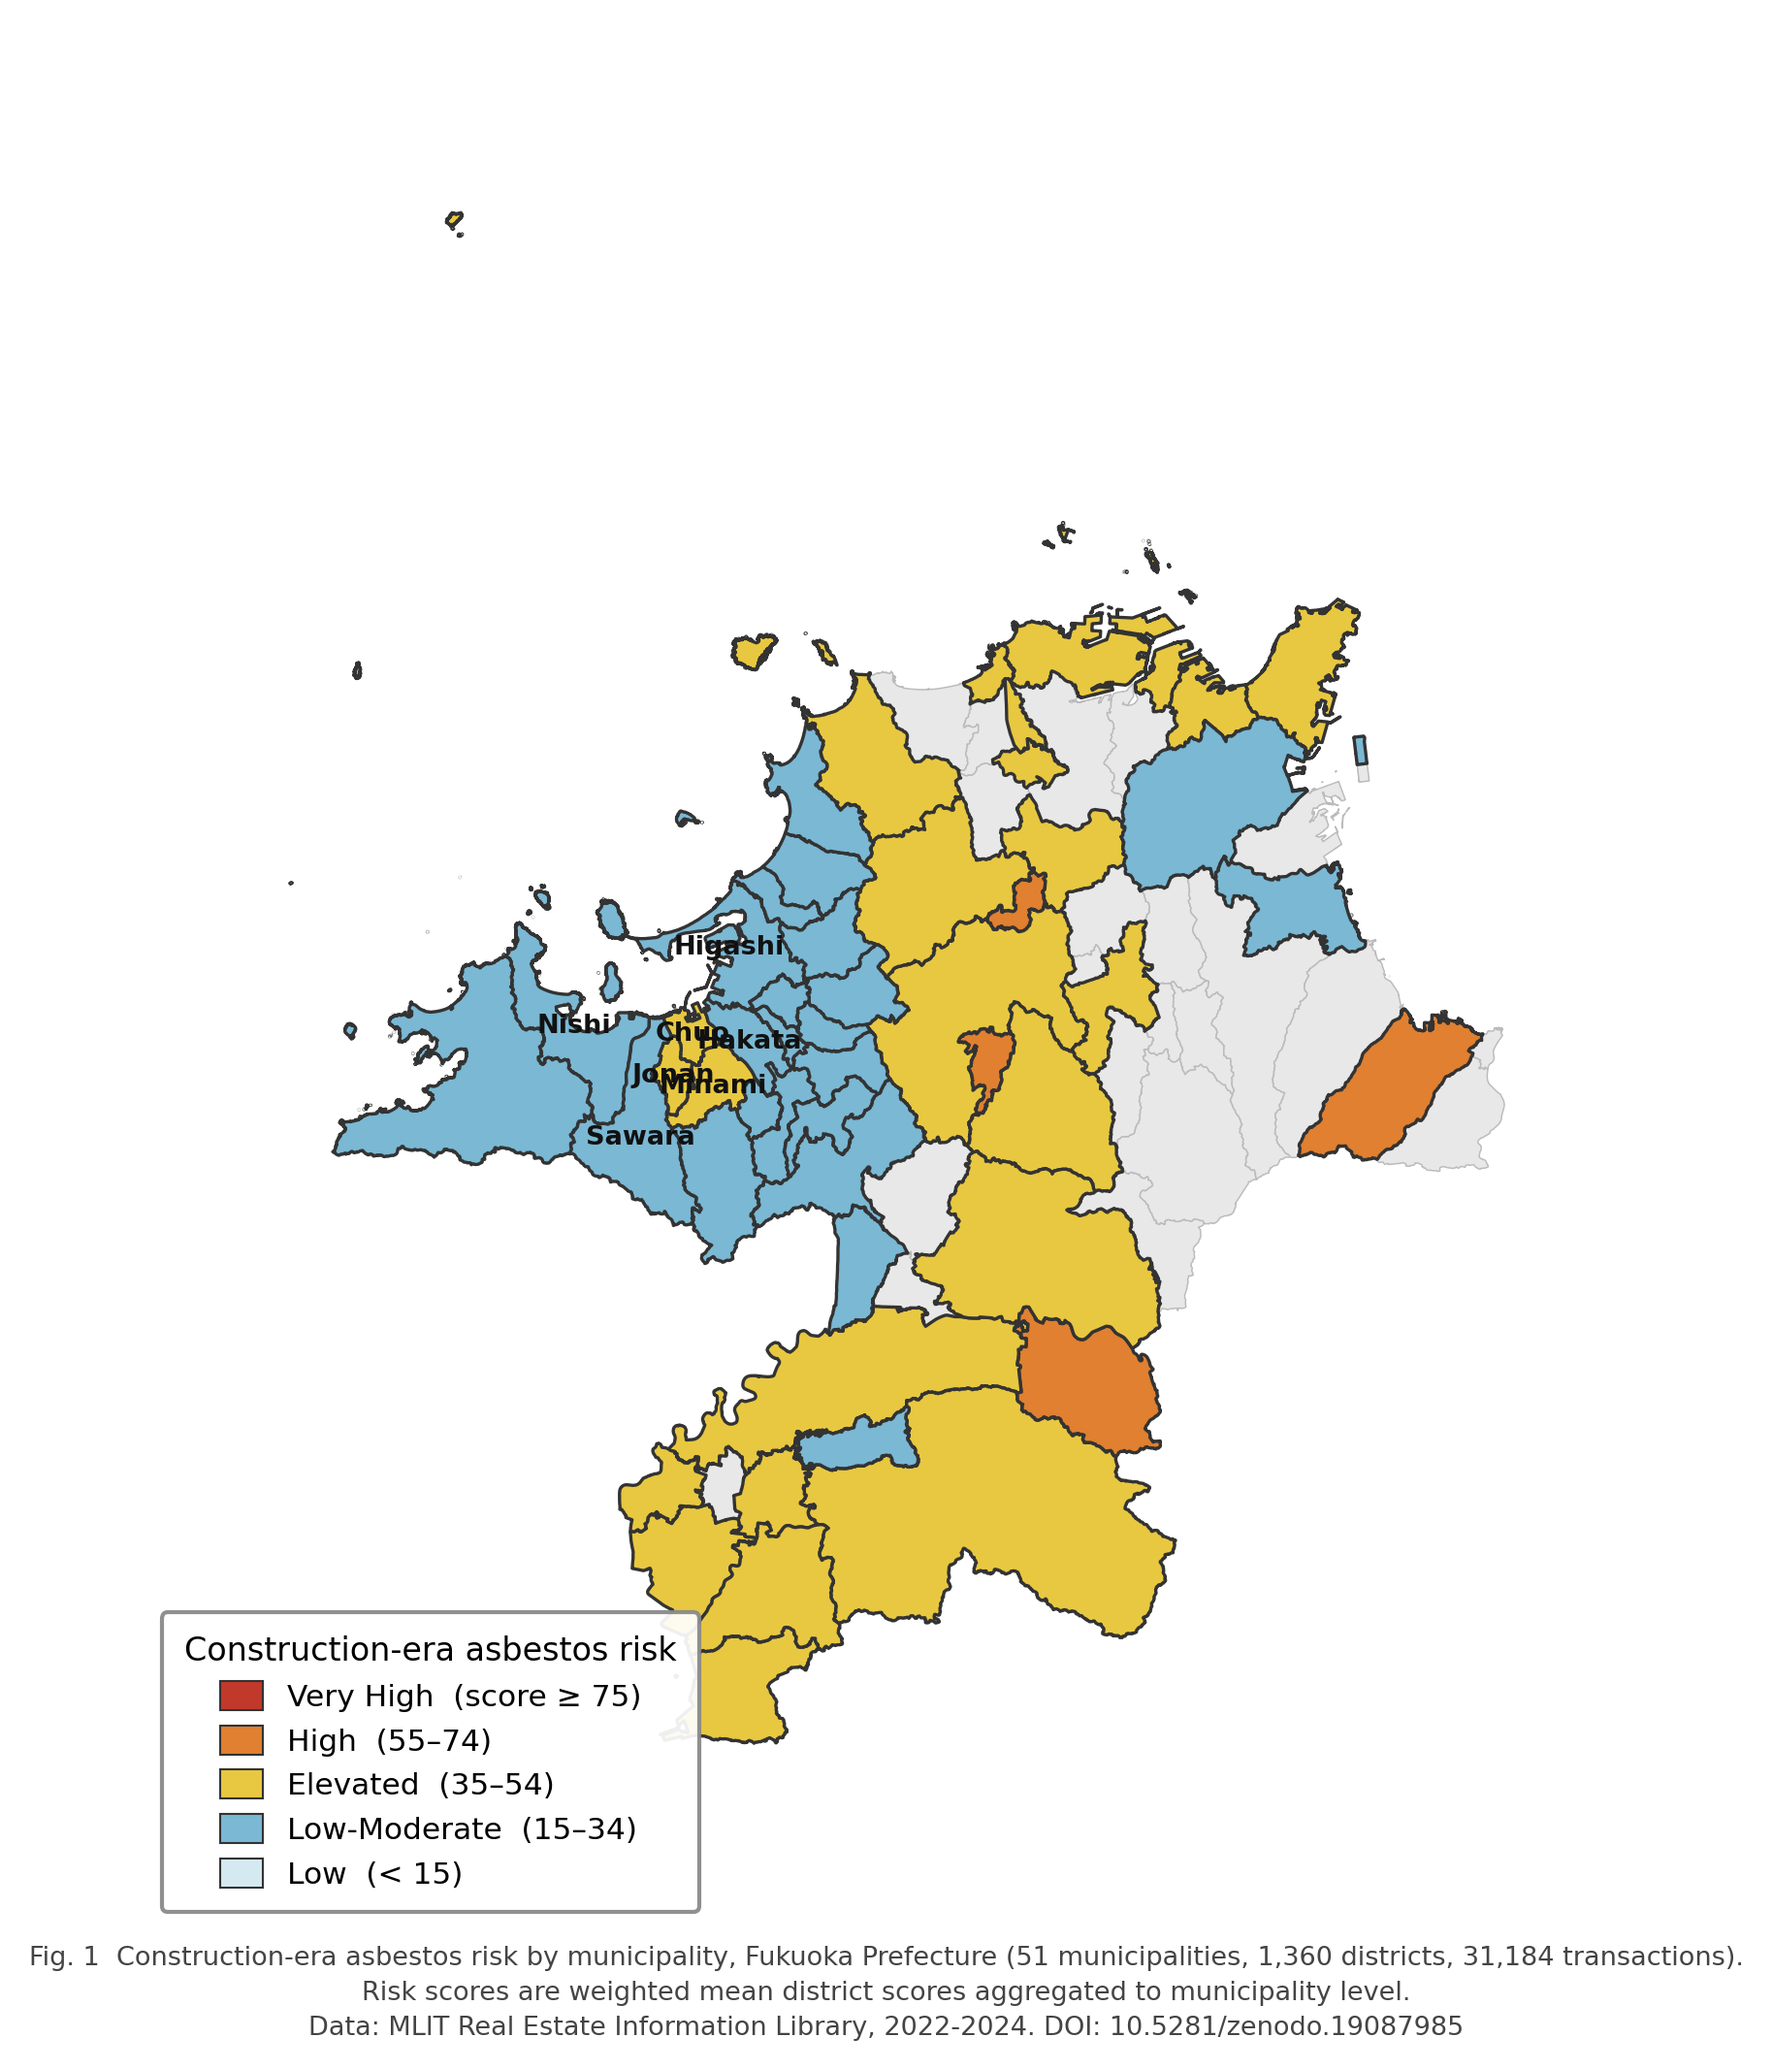
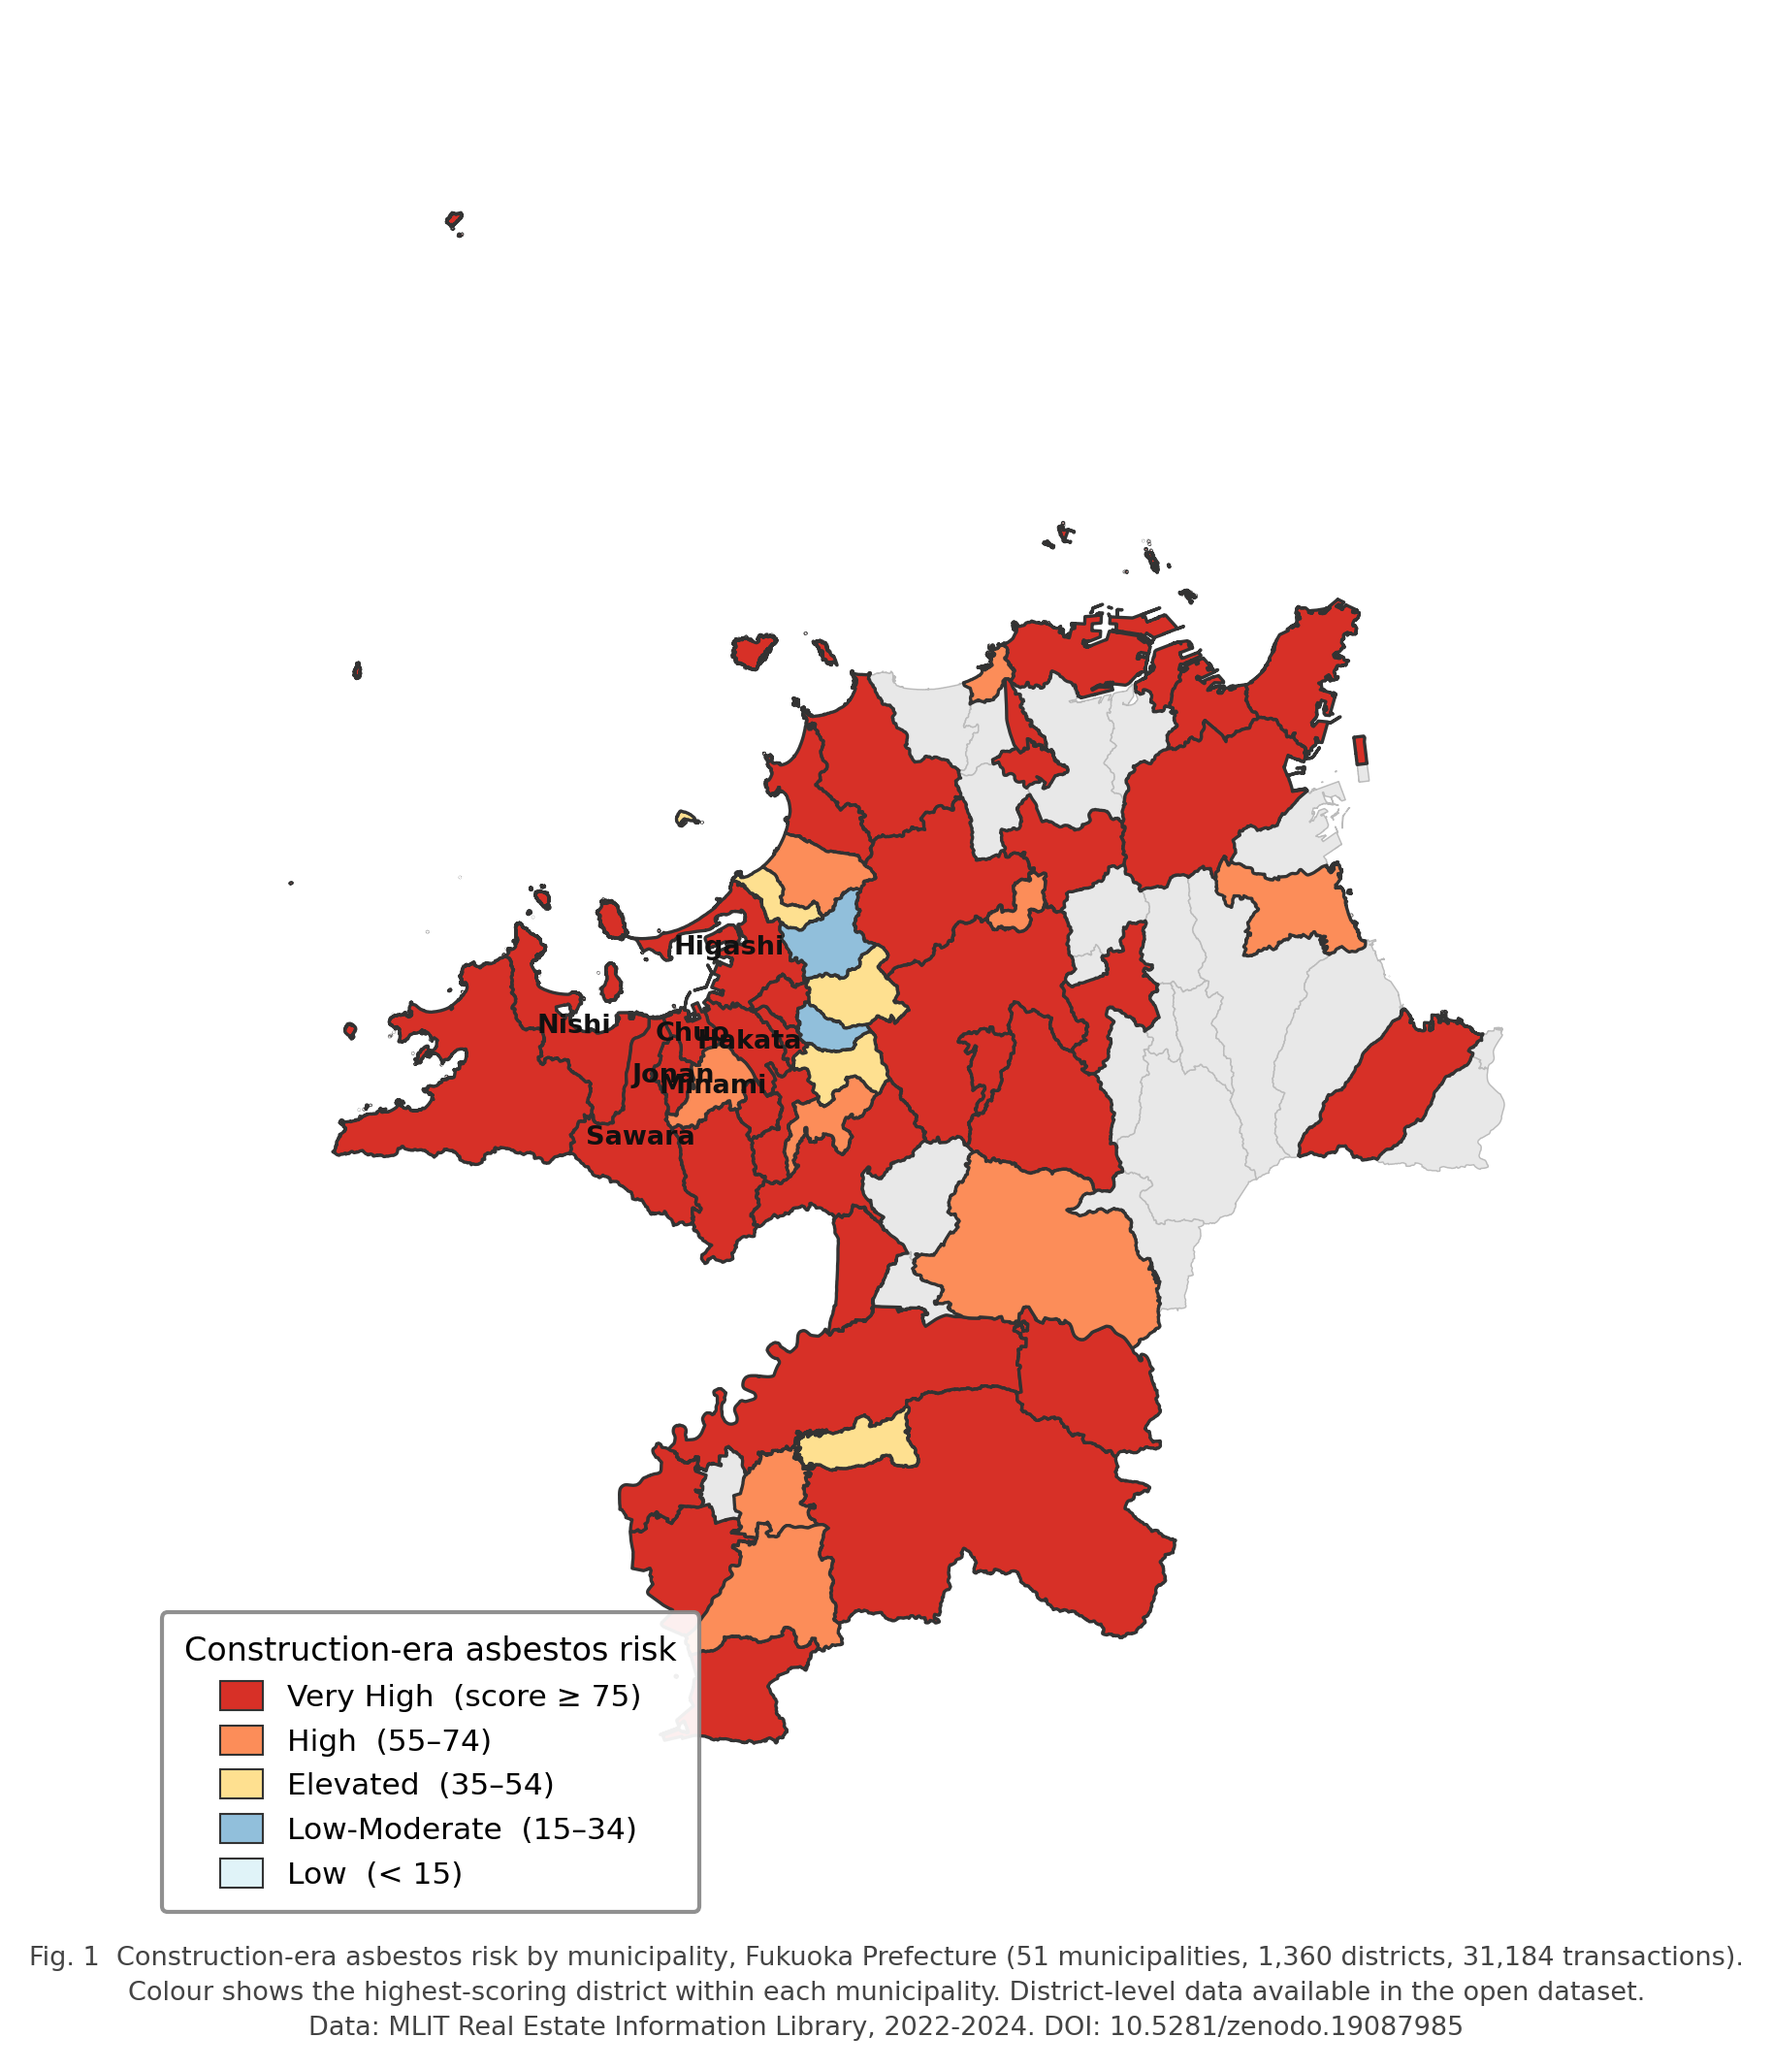
Figure: switch to max-district aggregation, RdYlBu palette
Previous weighted-mean approach diluted very_high districts when newer
buildings coexist in the same municipality, making most polygons appear
amber/blue with no red visible.

Changes:
- aggregate_to_municipality() now tracks max risk score per municipality
- Colour shows worst district in each polygon (not weighted mean)
- RdYlBu-5 palette replaces custom colours (clearer red/orange/yellow/blue)
- Caption updated to describe max-aggregation method

Result: the figure now correctly shows that almost all Fukuoka Prefecture
municipalities contain at least one very-high-risk district, with newer
suburban/rural areas in the south as the exceptions.

diff --git a/generate_figure.py b/generate_figure.py
@@ -46,12 +46,12 @@ N03_CACHE = CACHE_DIR / "N03_fukuoka.gpkg"
 # Risk palette — 5-level sequential, print-safe
 # ---------------------------------------------------------------------------
 RISK_COLORS = {
-    "very_high":   "#c0392b",  # dark red
-    "high":        "#e08030",  # burnt orange
-    "elevated":    "#e8c840",  # amber
-    "low_moderate":"#7ab8d4",  # muted blue
-    "low":         "#d4eaf0",  # pale blue
-    "no_data":     "#ececec",  # light grey
+    "very_high":   "#d73027",  # RdYlBu vivid red
+    "high":        "#fc8d59",  # RdYlBu orange
+    "elevated":    "#fee090",  # RdYlBu pale yellow
+    "low_moderate":"#91bfdb",  # RdYlBu mid blue
+    "low":         "#e0f3f8",  # RdYlBu very pale blue
+    "no_data":     "#e8e8e8",  # light grey
 }
 RISK_ORDER = ["very_high", "high", "elevated", "low_moderate", "low"]
 RISK_LABELS = {
@@ -80,19 +80,26 @@ def load_districts() -> list:
 
 
 def aggregate_to_municipality(districts: list) -> dict:
-    """Weighted mean risk score per municipality (JIS 5-digit code)."""
-    acc = defaultdict(lambda: {"score_x_n": 0.0, "n": 0, "name": ""})
+    """Max district risk score per municipality (JIS 5-digit code).
+
+    Using max rather than weighted mean so that municipalities containing
+    even one very-high-risk district show as very_high. Weighted mean dilutes
+    the signal when newer buildings coexist with pre-1975 stock.
+    """
+    acc = defaultdict(lambda: {"max_score": 0.0, "n": 0, "name": ""})
     for d in districts:
         code = d["municipality_code"]
         n    = d["n_buildings"]
-        acc[code]["score_x_n"] += d["risk_score"] * n
-        acc[code]["n"]         += n
-        acc[code]["name"]       = d["municipality"]
+        score = d["risk_score"]
+        if score > acc[code]["max_score"]:
+            acc[code]["max_score"] = score
+        acc[code]["n"]    += n
+        acc[code]["name"]  = d["municipality"]
     return {
         code: {
-            "avg_score":    v["score_x_n"] / v["n"],
+            "max_score":    v["max_score"],
             "n_buildings":  v["n"],
-            "risk_level":   score_to_level(v["score_x_n"] / v["n"]),
+            "risk_level":   score_to_level(v["max_score"]),
             "municipality": v["name"],
         }
         for code, v in acc.items()
@@ -151,8 +158,8 @@ def make_figure(gdf: gpd.GeoDataFrame, muni_scores: dict) -> None:
     gdf_muni["risk_level"]  = gdf_muni[code_col].map(
         lambda c: muni_scores.get(c, {}).get("risk_level", "no_data")
     )
-    gdf_muni["avg_score"]   = gdf_muni[code_col].map(
-        lambda c: muni_scores.get(c, {}).get("avg_score", np.nan)
+    gdf_muni["max_score"]   = gdf_muni[code_col].map(
+        lambda c: muni_scores.get(c, {}).get("max_score", np.nan)
     )
     gdf_muni["face_color"]  = gdf_muni["risk_level"].map(
         lambda r: RISK_COLORS.get(r, RISK_COLORS["no_data"])
@@ -236,7 +243,7 @@ def make_figure(gdf: gpd.GeoDataFrame, muni_scores: dict) -> None:
     ax.text(
         0.5, -0.01,
         "Fig. 1  Construction-era asbestos risk by municipality, Fukuoka Prefecture (51 municipalities, 1,360 districts, 31,184 transactions).\n"
-        "Risk scores are weighted mean district scores aggregated to municipality level.\n"
+        "Colour shows the highest-scoring district within each municipality. District-level data available in the open dataset.\n"
         "Data: MLIT Real Estate Information Library, 2022-2024. DOI: 10.5281/zenodo.19087985",
         transform=ax.transAxes,
         ha="center", va="top",
